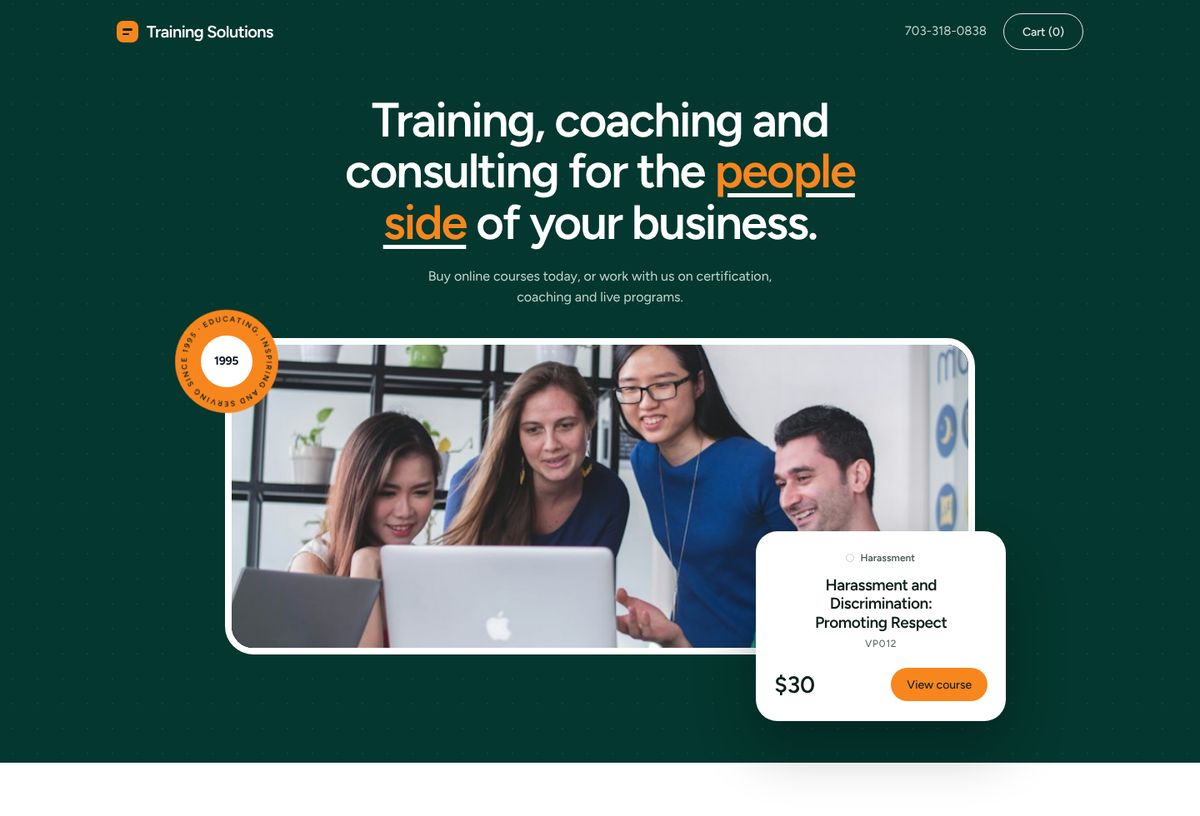
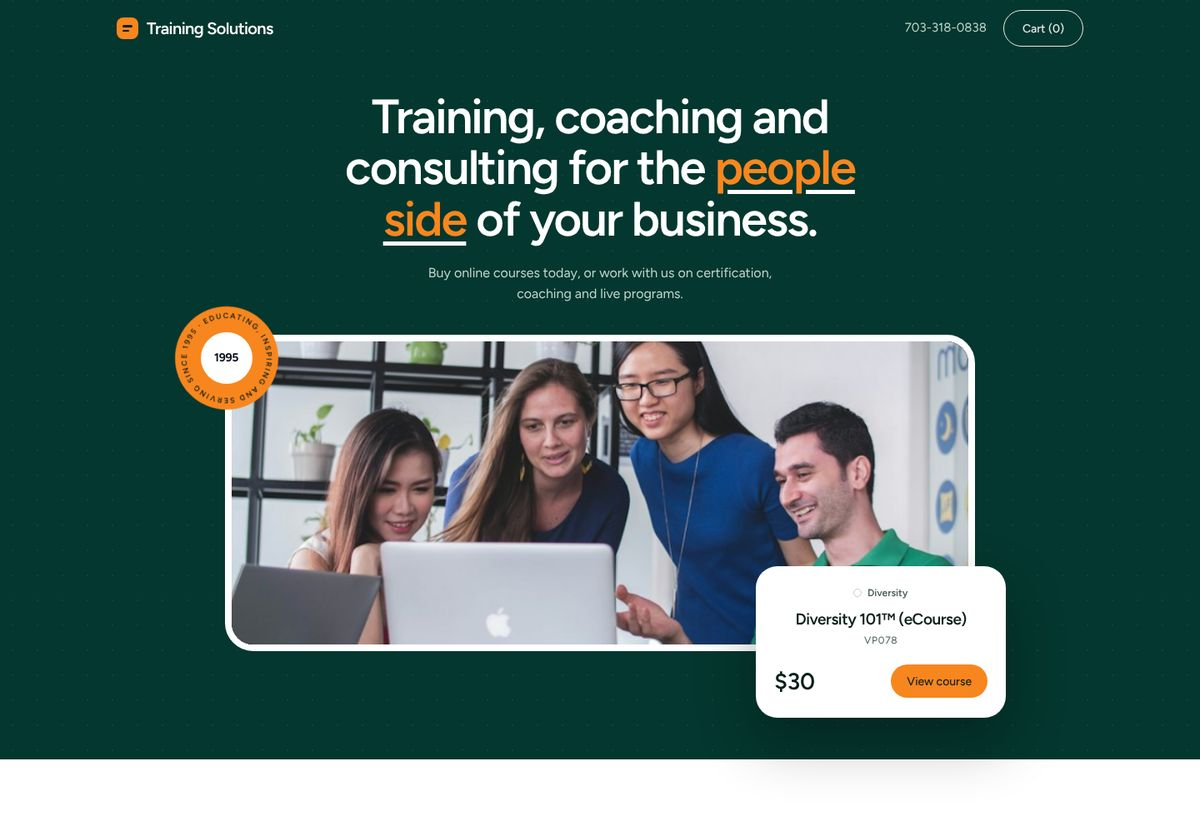
Use real featured product images and details for the popular cards
Claude-Session: https://claude.ai/code/session_01XfvvjyBa219y9qsxsCGa1L

diff --git a/visual-design-concept.html b/visual-design-concept.html
@@ -4,7 +4,7 @@
 <link rel="preconnect" href="https://fonts.gstatic.com" crossorigin>
 <link rel="stylesheet" href="https://fonts.googleapis.com/css2?family=Figtree:wght@300;400;500;600;700;800&display=swap">
 <style>
-/* Option 1, Layered Night. Topic cards: classic. Course cards: full photo with an info panel. */
+/* Option 1, Layered Night. Topic cards: classic. Course cards: real product images from trainingsolutions.com. */
 :root, [data-theme="a"] {
   /* A. Layered Night: dark hero, stacked rounded sheets, electric blue */
   --ink: #0B1020; --ink-2: #565F7A; --paper: #FFFFFF; --card: #FFFFFF;
@@ -372,6 +372,12 @@ footer { background: var(--foot-bg); color: var(--foot-fg); padding-block: 72px 
   .cshape, .badge svg, .c-arch img, .hero h1, .hero-sub, .result { animation: none; }
   .pic img, .card, .tcard, .svc, .btn, .go i, .link i { transition: none; }
 }
+
+/* real product covers: contained on a light backdrop, no tint */
+.pic.prod { background: #EEF1F7; }
+.pic.prod img { mix-blend-mode: normal; filter: none; object-fit: contain; background: transparent; }
+.card .pic.prod { padding: 48px 22px 112px; }
+.hot:hover .pic.prod img { transform: scale(1.04); }
 </style>
 <header class="hero">
   <div class="wrap">
@@ -502,18 +508,18 @@ footer { background: var(--foot-bg); color: var(--foot-fg); padding-block: 72px 
 (function () {
   // Real catalog data from trainingsolutions.com. Course length is not published in the listings, so it is left out.
   var courses = [
-    { code: 'VP012', topic: 'Harassment', title: 'Harassment and Discrimination: Promoting Respect', price: 30, img: 'harassment', alt: 'Colleagues in a respectful workplace discussion' },
-    { code: 'VP075', topic: 'Harassment', title: 'Keeping Your Workplace Free from Harassment and Discrimination', price: 30, img: 'svc-tag', alt: 'Team members working together on laptops' },
-    { code: 'VP078', topic: 'Diversity', title: 'Diversity 101™', price: 30, img: 'diversity', alt: 'Diverse team looking at a laptop together' },
-    { code: 'VP064', topic: 'Leadership', title: 'Leadership 101', price: 50, img: 'leadership', alt: 'Manager presenting to a team' },
-    { code: 'VP069', topic: 'Coaching', title: 'Courage to Coach™', price: 30, img: 'coaching', alt: 'Professional in a coaching conversation', top: 1 },
-    { code: 'VP090', topic: 'Conflict', title: 'Conflict 101™', price: 30, img: 'conflict', alt: 'Colleagues working through a disagreement' },
-    { code: 'VP063', topic: 'Coaching', title: 'Coaching and Feedback Essentials', price: 50, img: 'svc-exec', alt: 'Professional giving and receiving feedback', top: 1 },
-    { code: 'VP059', topic: 'Teams', title: 'Creating a High Performing Team', price: 50, img: 'teams', alt: 'Team collaborating around a table' },
-    { code: 'VP065', topic: 'Ethics', title: 'A.C.T. with Integrity™', price: 30, img: 'ethics', alt: 'Professional in a suit on a staircase', top: 1 },
-    { code: 'VP079', topic: 'Harassment', title: 'ENOUGH!™ The Consequences of Sexual Harassment', price: 30, img: 'svc-classes', alt: 'Facilitator leading a discussion at a whiteboard' },
-    { code: 'VP037', topic: 'Meetings', title: 'Fearless Facilitation! Lead Effective Meetings', price: 30, img: 'meetings', alt: 'Team in a meeting room' },
-    { code: 'VP043', topic: 'Sales', title: 'Win the S.A.L.E. for Sales Professionals', price: 30, img: 'sales', alt: 'Colleagues celebrating a sale' }
+    { code: "D08", topic: "Team Behaviors", title: "The Five Behaviors® Team & Personal Downloadable Kits", price: "1,345", img: "prod-d08.png", alt: "Five Behaviors Team and Personal Development downloadable kit artwork" },
+    { code: "B107", topic: "DiSC/Personal Development", title: "Everything DiSC® Workplace on Catalyst", price: "90", img: "prod-b107.jpg", alt: "Sample Your DiSC Profile report cover" },
+    { code: "CER3", topic: "DiSC/Personal Development", title: "The Everything DiSC® Certification & Catalyst Practitioner Experience", price: "3,995", img: "prod-cer3.png", alt: "Catalyst Practitioner Experience certification artwork" },
+    { code: "B101", topic: "Sales", title: "Everything DiSC® Sales Profile", price: "150", img: "prod-b101.png", alt: "Sample Everything DiSC Sales Profile report cover" },
+    { code: "PI04", topic: "Interviewing", title: "PXT Select™", price: "295", img: "prod-pi04.png", alt: "Sample PXT Select report cover" },
+    { code: "FB1", topic: "Team Behaviors", title: "The Five Behaviors™ Assessment", price: "210", img: "prod-fb1.jpg", alt: "Sample Five Behaviors assessment report cover" },
+    { code: "PI01", topic: "Management", title: "CheckPoint 360 Feedback", price: "400", img: "prod-pi01.jpg", alt: "CheckPoint 360 Executive Competency Overview sample" },
+    { code: "B104", topic: "Leadership", title: "Everything DiSC® Work of Leaders™ Profile", price: "150", img: "prod-b104.jpg", alt: "Sample Work of Leaders Profile report cover" },
+    { code: "VP065", topic: "Attitudes/Ethics", title: "A.C.T.with Integrity™ (eCourse)", price: "30", img: "prod-vp065.png", alt: "A.C.T. with Integrity eCourse title slide" },
+    { code: "VP078", topic: "Diversity", title: "Diversity 101™ (eCourse)", price: "30", img: "prod-vp078.png", alt: "Diversity 101 eCourse title slide" },
+    { code: "VP069", topic: "Coaching/Discipline", title: "Courage to Coach™ (eCourse)", price: "30", img: "prod-vp069.png", alt: "Courage to Coach eCourse slide" },
+    { code: "VP064", topic: "Leadership", title: "Leadership 101 (eCourse)", price: "50", img: "prod-vp064.png", alt: "Leadership 101 eCourse title slide" }
   ];
   var byCode = {}; courses.forEach(function (c) { byCode[c.code] = c; });
   var topics = [
@@ -529,14 +535,14 @@ footer { background: var(--foot-bg); color: var(--foot-fg); padding-block: 72px 
 
 
   /* hero: one featured course from the catalog */
-  var hero = byCode['VP012'], result = document.getElementById('result');
+  var hero = byCode['VP078'], result = document.getElementById('result');
   result.innerHTML = '<span class="tag">' + hero.topic + '</span><h3>' + esc(hero.title) + '</h3><p class="meta">' + hero.code + '</p><div class="row"><span class="price">$' + hero.price + '</span><a class="btn btn-accent" href="#courses">View course</a></div>';
   result.addEventListener('click', function (e) { if (e.target.closest('a')) { e.preventDefault(); go('courses'); } });
 
   /* course cards: full photo with an info panel */
   var grid = document.getElementById('grid');
   grid.innerHTML = courses.map(function (c) {
-    return '<a class="card hot" href="#"><span class="code">' + c.code + '</span><span class="pp">$' + c.price + '</span><div class="pic' + (c.top ? ' top' : '') + '"><img src="images/' + c.img + '.jpg" alt="' + esc(c.alt) + '" loading="lazy"></div><div class="info"><span class="tp">' + c.topic + '</span><h3>' + esc(c.title) + '</h3></div></a>';
+    return '<a class="card hot" href="#"><span class="code">' + c.code + '</span><span class="pp">$' + c.price + '</span><div class="pic' + ' prod' + '"><img src="images/' + c.img + '" alt="' + esc(c.alt) + '" loading="lazy"></div><div class="info"><span class="tp">' + c.topic + '</span><h3>' + esc(c.title) + '</h3></div></a>';
   }).join('');
   grid.addEventListener('click', function (e) { if (e.target.closest('.card')) e.preventDefault(); });
 

diff --git a/maze-style.html b/maze-style.html
@@ -197,6 +197,12 @@ footer { background: #1E1E1E; color: #fff; padding-block: 64px 32px; border-radi
   .hero h1, .hero-sub, .fcard { animation: none; }
   .tcard, .card, .svc, .btn, .pic img, .tcard .arr { transition: none; }
 }
+
+/* real product covers: contained on a light backdrop, no tint */
+.pic.prod { background: #EEF1F7; }
+.pic.prod img { mix-blend-mode: normal; filter: none; object-fit: contain; background: transparent; }
+.card .pic.prod { padding: 48px 22px 112px; }
+.hot:hover .pic.prod img { transform: scale(1.04); }
 </style>
 
 <header>
@@ -323,25 +329,25 @@ footer { background: #1E1E1E; color: #fff; padding-block: 64px 32px; border-radi
 <script>
 (function () {
   var courses = [
-    { code: 'VP012', topic: 'Harassment', title: 'Harassment and Discrimination: Promoting Respect', price: 30, img: 'harassment', alt: 'Colleagues in a respectful workplace discussion' },
-    { code: 'VP075', topic: 'Harassment', title: 'Keeping Your Workplace Free from Harassment and Discrimination', price: 30, img: 'svc-tag', alt: 'Team members working together on laptops' },
-    { code: 'VP078', topic: 'Diversity', title: 'Diversity 101™', price: 30, img: 'diversity', alt: 'Diverse team looking at a laptop together' },
-    { code: 'VP064', topic: 'Leadership', title: 'Leadership 101', price: 50, img: 'leadership', alt: 'Manager presenting to a team' },
-    { code: 'VP069', topic: 'Coaching', title: 'Courage to Coach™', price: 30, img: 'coaching', alt: 'Professional in a coaching conversation', top: 1 },
-    { code: 'VP090', topic: 'Conflict', title: 'Conflict 101™', price: 30, img: 'conflict', alt: 'Colleagues working through a disagreement' },
-    { code: 'VP063', topic: 'Coaching', title: 'Coaching and Feedback Essentials', price: 50, img: 'svc-exec', alt: 'Professional giving and receiving feedback', top: 1 },
-    { code: 'VP059', topic: 'Teams', title: 'Creating a High Performing Team', price: 50, img: 'teams', alt: 'Team collaborating around a table' },
-    { code: 'VP065', topic: 'Ethics', title: 'A.C.T. with Integrity™', price: 30, img: 'ethics', alt: 'Professional in a suit on a staircase', top: 1 },
-    { code: 'VP079', topic: 'Harassment', title: 'ENOUGH!™ The Consequences of Sexual Harassment', price: 30, img: 'svc-classes', alt: 'Facilitator leading a discussion at a whiteboard' },
-    { code: 'VP037', topic: 'Meetings', title: 'Fearless Facilitation! Lead Effective Meetings', price: 30, img: 'meetings', alt: 'Team in a meeting room' },
-    { code: 'VP043', topic: 'Sales', title: 'Win the S.A.L.E. for Sales Professionals', price: 30, img: 'sales', alt: 'Colleagues celebrating a sale' }
+    { code: "D08", topic: "Team Behaviors", title: "The Five Behaviors® Team & Personal Downloadable Kits", price: "1,345", img: "prod-d08.png", alt: "Five Behaviors Team and Personal Development downloadable kit artwork" },
+    { code: "B107", topic: "DiSC/Personal Development", title: "Everything DiSC® Workplace on Catalyst", price: "90", img: "prod-b107.jpg", alt: "Sample Your DiSC Profile report cover" },
+    { code: "CER3", topic: "DiSC/Personal Development", title: "The Everything DiSC® Certification & Catalyst Practitioner Experience", price: "3,995", img: "prod-cer3.png", alt: "Catalyst Practitioner Experience certification artwork" },
+    { code: "B101", topic: "Sales", title: "Everything DiSC® Sales Profile", price: "150", img: "prod-b101.png", alt: "Sample Everything DiSC Sales Profile report cover" },
+    { code: "PI04", topic: "Interviewing", title: "PXT Select™", price: "295", img: "prod-pi04.png", alt: "Sample PXT Select report cover" },
+    { code: "FB1", topic: "Team Behaviors", title: "The Five Behaviors™ Assessment", price: "210", img: "prod-fb1.jpg", alt: "Sample Five Behaviors assessment report cover" },
+    { code: "PI01", topic: "Management", title: "CheckPoint 360 Feedback", price: "400", img: "prod-pi01.jpg", alt: "CheckPoint 360 Executive Competency Overview sample" },
+    { code: "B104", topic: "Leadership", title: "Everything DiSC® Work of Leaders™ Profile", price: "150", img: "prod-b104.jpg", alt: "Sample Work of Leaders Profile report cover" },
+    { code: "VP065", topic: "Attitudes/Ethics", title: "A.C.T.with Integrity™ (eCourse)", price: "30", img: "prod-vp065.png", alt: "A.C.T. with Integrity eCourse title slide" },
+    { code: "VP078", topic: "Diversity", title: "Diversity 101™ (eCourse)", price: "30", img: "prod-vp078.png", alt: "Diversity 101 eCourse title slide" },
+    { code: "VP069", topic: "Coaching/Discipline", title: "Courage to Coach™ (eCourse)", price: "30", img: "prod-vp069.png", alt: "Courage to Coach eCourse slide" },
+    { code: "VP064", topic: "Leadership", title: "Leadership 101 (eCourse)", price: "50", img: "prod-vp064.png", alt: "Leadership 101 eCourse title slide" }
   ];
   var topics = [['Harassment', 19], ['Diversity', 12], ['Everything DiSC and personal development', 13], ['Leadership', 12], ['Management', 12], ['Hiring and interviewing', 10], ['Coaching and discipline', 8], ['Ethics and attitude', 7], ['Teams', 7], ['Sales and customer service', 6], ['Conflict resolution', 5], ['Meetings and time management', 5], ['Communication and EQ', 4], ['Legal', 2]];
   var reduce = window.matchMedia('(prefers-reduced-motion: reduce)').matches;
   function esc(s) { return String(s).replace(/[&<>"]/g, function (c) { return { '&': '&amp;', '<': '&lt;', '>': '&gt;', '"': '&quot;' }[c]; }); }
   function go(id) { document.getElementById(id).scrollIntoView({ behavior: reduce ? 'auto' : 'smooth' }); }
 
-  var h = courses[0], fcard = document.getElementById('fcard');
+  var h = courses[9], fcard = document.getElementById('fcard');
   fcard.innerHTML = '<span class="chip">' + h.topic + '</span><h3>' + esc(h.title) + '</h3><p class="meta">' + h.code + '</p><div class="row"><span class="price">$' + h.price + '</span><a class="btn btn-ink" href="#courses">View course</a></div>';
   fcard.addEventListener('click', function (e) { if (e.target.closest('a')) { e.preventDefault(); go('courses'); } });
 
@@ -350,7 +356,7 @@ footer { background: #1E1E1E; color: #fff; padding-block: 64px 32px; border-radi
   tgrid.addEventListener('click', function (e) { var a = e.target.closest('a.tcard'); if (a) { e.preventDefault(); go('courses'); } });
 
   var grid = document.getElementById('grid');
-  grid.innerHTML = courses.map(function (c) { return '<a class="card hot" href="#"><span class="chip code">' + c.code + '</span><span class="pp">$' + c.price + '</span><div class="pic' + (c.top ? ' top' : '') + '"><img src="images/' + c.img + '.jpg" alt="' + esc(c.alt) + '" loading="lazy"></div><div class="info"><span class="chip">' + c.topic + '</span><h3>' + esc(c.title) + '</h3></div></a>'; }).join('');
+  grid.innerHTML = courses.map(function (c) { return '<a class="card hot" href="#"><span class="chip code">' + c.code + '</span><span class="pp">$' + c.price + '</span><div class="pic' + ' prod' + '"><img src="images/' + c.img + '" alt="' + esc(c.alt) + '" loading="lazy"></div><div class="info"><span class="chip">' + c.topic + '</span><h3>' + esc(c.title) + '</h3></div></a>'; }).join('');
   grid.addEventListener('click', function (e) { if (e.target.closest('.card')) e.preventDefault(); });
 
   /* pixelated lime circle behind the services heading */

diff --git a/column-style.html b/column-style.html
@@ -190,6 +190,12 @@ footer { background: var(--pale); border-top: 1px solid var(--line); padding-blo
   .hero h1, .hero-sub, .fcard { animation: none; }
   .tcard, .card, .svc, .btn, .chev, .pic img, .tcard .go { transition: none; }
 }
+
+/* real product covers: contained on a light backdrop, no tint */
+.pic.prod { background: #EEF1F7; }
+.pic.prod img { mix-blend-mode: normal; filter: none; object-fit: contain; background: transparent; }
+.card .pic.prod { padding: 48px 22px 112px; }
+.hot:hover .pic.prod img { transform: scale(1.04); }
 </style>
 
 <header class="hero" id="top">
@@ -312,18 +318,18 @@ footer { background: var(--pale); border-top: 1px solid var(--line); padding-blo
 <script>
 (function () {
   var courses = [
-    { code: 'VP012', topic: 'Harassment', title: 'Harassment and Discrimination: Promoting Respect', price: 30, img: 'harassment', alt: 'Colleagues in a respectful workplace discussion' },
-    { code: 'VP075', topic: 'Harassment', title: 'Keeping Your Workplace Free from Harassment and Discrimination', price: 30, img: 'svc-tag', alt: 'Team members working together on laptops' },
-    { code: 'VP078', topic: 'Diversity', title: 'Diversity 101™', price: 30, img: 'diversity', alt: 'Diverse team looking at a laptop together' },
-    { code: 'VP064', topic: 'Leadership', title: 'Leadership 101', price: 50, img: 'leadership', alt: 'Manager presenting to a team' },
-    { code: 'VP069', topic: 'Coaching', title: 'Courage to Coach™', price: 30, img: 'coaching', alt: 'Professional in a coaching conversation', top: 1 },
-    { code: 'VP090', topic: 'Conflict', title: 'Conflict 101™', price: 30, img: 'conflict', alt: 'Colleagues working through a disagreement' },
-    { code: 'VP063', topic: 'Coaching', title: 'Coaching and Feedback Essentials', price: 50, img: 'svc-exec', alt: 'Professional giving and receiving feedback', top: 1 },
-    { code: 'VP059', topic: 'Teams', title: 'Creating a High Performing Team', price: 50, img: 'teams', alt: 'Team collaborating around a table' },
-    { code: 'VP065', topic: 'Ethics', title: 'A.C.T. with Integrity™', price: 30, img: 'ethics', alt: 'Professional in a suit on a staircase', top: 1 },
-    { code: 'VP079', topic: 'Harassment', title: 'ENOUGH!™ The Consequences of Sexual Harassment', price: 30, img: 'svc-classes', alt: 'Facilitator leading a discussion at a whiteboard' },
-    { code: 'VP037', topic: 'Meetings', title: 'Fearless Facilitation! Lead Effective Meetings', price: 30, img: 'meetings', alt: 'Team in a meeting room' },
-    { code: 'VP043', topic: 'Sales', title: 'Win the S.A.L.E. for Sales Professionals', price: 30, img: 'sales', alt: 'Colleagues celebrating a sale' }
+    { code: "D08", topic: "Team Behaviors", title: "The Five Behaviors® Team & Personal Downloadable Kits", price: "1,345", img: "prod-d08.png", alt: "Five Behaviors Team and Personal Development downloadable kit artwork" },
+    { code: "B107", topic: "DiSC/Personal Development", title: "Everything DiSC® Workplace on Catalyst", price: "90", img: "prod-b107.jpg", alt: "Sample Your DiSC Profile report cover" },
+    { code: "CER3", topic: "DiSC/Personal Development", title: "The Everything DiSC® Certification & Catalyst Practitioner Experience", price: "3,995", img: "prod-cer3.png", alt: "Catalyst Practitioner Experience certification artwork" },
+    { code: "B101", topic: "Sales", title: "Everything DiSC® Sales Profile", price: "150", img: "prod-b101.png", alt: "Sample Everything DiSC Sales Profile report cover" },
+    { code: "PI04", topic: "Interviewing", title: "PXT Select™", price: "295", img: "prod-pi04.png", alt: "Sample PXT Select report cover" },
+    { code: "FB1", topic: "Team Behaviors", title: "The Five Behaviors™ Assessment", price: "210", img: "prod-fb1.jpg", alt: "Sample Five Behaviors assessment report cover" },
+    { code: "PI01", topic: "Management", title: "CheckPoint 360 Feedback", price: "400", img: "prod-pi01.jpg", alt: "CheckPoint 360 Executive Competency Overview sample" },
+    { code: "B104", topic: "Leadership", title: "Everything DiSC® Work of Leaders™ Profile", price: "150", img: "prod-b104.jpg", alt: "Sample Work of Leaders Profile report cover" },
+    { code: "VP065", topic: "Attitudes/Ethics", title: "A.C.T.with Integrity™ (eCourse)", price: "30", img: "prod-vp065.png", alt: "A.C.T. with Integrity eCourse title slide" },
+    { code: "VP078", topic: "Diversity", title: "Diversity 101™ (eCourse)", price: "30", img: "prod-vp078.png", alt: "Diversity 101 eCourse title slide" },
+    { code: "VP069", topic: "Coaching/Discipline", title: "Courage to Coach™ (eCourse)", price: "30", img: "prod-vp069.png", alt: "Courage to Coach eCourse slide" },
+    { code: "VP064", topic: "Leadership", title: "Leadership 101 (eCourse)", price: "50", img: "prod-vp064.png", alt: "Leadership 101 eCourse title slide" }
   ];
   var topics = [['Harassment', 19], ['Diversity', 12], ['Everything DiSC and personal development', 13], ['Leadership', 12], ['Management', 12], ['Hiring and interviewing', 10], ['Coaching and discipline', 8], ['Ethics and attitude', 7], ['Teams', 7], ['Sales and customer service', 6], ['Conflict resolution', 5], ['Meetings and time management', 5], ['Communication and EQ', 4], ['Legal', 2]];
   var reduce = window.matchMedia('(prefers-reduced-motion: reduce)').matches;
@@ -331,7 +337,7 @@ footer { background: var(--pale); border-top: 1px solid var(--line); padding-blo
   function go(id) { document.getElementById(id).scrollIntoView({ behavior: reduce ? 'auto' : 'smooth' }); }
 
   /* featured course */
-  var h = courses[0], fcard = document.getElementById('fcard');
+  var h = courses[9], fcard = document.getElementById('fcard');
   fcard.innerHTML = '<span class="tag">' + h.topic + '</span><h3>' + esc(h.title) + '</h3><p class="meta mono">' + h.code + '</p><div class="row"><span class="price">$' + h.price + '</span><a class="btn btn-navy" href="#courses">View course <span class="chev" aria-hidden="true">›</span></a></div>';
   fcard.addEventListener('click', function (e) { if (e.target.closest('a')) { e.preventDefault(); go('courses'); } });
 
@@ -342,7 +348,7 @@ footer { background: var(--pale); border-top: 1px solid var(--line); padding-blo
 
   /* courses */
   var grid = document.getElementById('grid');
-  grid.innerHTML = courses.map(function (c) { return '<a class="card hot" href="#"><span class="code">' + c.code + '</span><span class="pp">$' + c.price + '</span><div class="pic' + (c.top ? ' top' : '') + '"><img src="images/' + c.img + '.jpg" alt="' + esc(c.alt) + '" loading="lazy"></div><div class="info"><span class="tp">' + c.topic + '</span><h3>' + esc(c.title) + '</h3></div></a>'; }).join('');
+  grid.innerHTML = courses.map(function (c) { return '<a class="card hot" href="#"><span class="code">' + c.code + '</span><span class="pp">$' + c.price + '</span><div class="pic' + ' prod' + '"><img src="images/' + c.img + '" alt="' + esc(c.alt) + '" loading="lazy"></div><div class="info"><span class="tp">' + c.topic + '</span><h3>' + esc(c.title) + '</h3></div></a>'; }).join('');
   grid.addEventListener('click', function (e) { if (e.target.closest('.card')) e.preventDefault(); });
 
   /* halftone dot fields */

diff --git a/home.html b/home.html
@@ -384,6 +384,12 @@ footer { background: var(--foot-bg); color: var(--foot-fg); padding-block: 72px 
   .cshape, .badge svg, .c-arch img, .hero h1, .hero-sub, .result { animation: none; }
   .pic img, .card, .tcard, .svc, .btn, .go i, .link i { transition: none; }
 }
+
+/* real product covers: contained on a light backdrop, no tint */
+.pic.prod { background: #EEF1F7; }
+.pic.prod img { mix-blend-mode: normal; filter: none; object-fit: contain; background: transparent; }
+.card .pic.prod { padding: 48px 22px 112px; }
+.hot:hover .pic.prod img { transform: scale(1.04); }
 </style>
 </head>
 <body>
@@ -522,18 +528,18 @@ footer { background: var(--foot-bg); color: var(--foot-fg); padding-block: 72px 
 (function () {
   // Real catalog data from trainingsolutions.com. Course length is not published in the listings, so it is left out.
   var courses = [
-    { code: 'VP012', topic: 'Harassment', title: 'Harassment and Discrimination: Promoting Respect', price: 30, img: 'harassment', alt: 'Colleagues in a respectful workplace discussion' },
-    { code: 'VP075', topic: 'Harassment', title: 'Keeping Your Workplace Free from Harassment and Discrimination', price: 30, img: 'svc-tag', alt: 'Team members working together on laptops' },
-    { code: 'VP078', topic: 'Diversity', title: 'Diversity 101™', price: 30, img: 'diversity', alt: 'Diverse team looking at a laptop together' },
-    { code: 'VP064', topic: 'Leadership', title: 'Leadership 101', price: 50, img: 'leadership', alt: 'Manager presenting to a team' },
-    { code: 'VP069', topic: 'Coaching', title: 'Courage to Coach™', price: 30, img: 'coaching', alt: 'Professional in a coaching conversation', top: 1 },
-    { code: 'VP090', topic: 'Conflict', title: 'Conflict 101™', price: 30, img: 'conflict', alt: 'Colleagues working through a disagreement' },
-    { code: 'VP063', topic: 'Coaching', title: 'Coaching and Feedback Essentials', price: 50, img: 'svc-exec', alt: 'Professional giving and receiving feedback', top: 1 },
-    { code: 'VP059', topic: 'Teams', title: 'Creating a High Performing Team', price: 50, img: 'teams', alt: 'Team collaborating around a table' },
-    { code: 'VP065', topic: 'Ethics', title: 'A.C.T. with Integrity™', price: 30, img: 'ethics', alt: 'Professional in a suit on a staircase', top: 1 },
-    { code: 'VP079', topic: 'Harassment', title: 'ENOUGH!™ The Consequences of Sexual Harassment', price: 30, img: 'svc-classes', alt: 'Facilitator leading a discussion at a whiteboard' },
-    { code: 'VP037', topic: 'Meetings', title: 'Fearless Facilitation! Lead Effective Meetings', price: 30, img: 'meetings', alt: 'Team in a meeting room' },
-    { code: 'VP043', topic: 'Sales', title: 'Win the S.A.L.E. for Sales Professionals', price: 30, img: 'sales', alt: 'Colleagues celebrating a sale' }
+    { code: "D08", topic: "Team Behaviors", title: "The Five Behaviors® Team & Personal Downloadable Kits", price: "1,345", img: "prod-d08.png", alt: "Five Behaviors Team and Personal Development downloadable kit artwork" },
+    { code: "B107", topic: "DiSC/Personal Development", title: "Everything DiSC® Workplace on Catalyst", price: "90", img: "prod-b107.jpg", alt: "Sample Your DiSC Profile report cover" },
+    { code: "CER3", topic: "DiSC/Personal Development", title: "The Everything DiSC® Certification & Catalyst Practitioner Experience", price: "3,995", img: "prod-cer3.png", alt: "Catalyst Practitioner Experience certification artwork" },
+    { code: "B101", topic: "Sales", title: "Everything DiSC® Sales Profile", price: "150", img: "prod-b101.png", alt: "Sample Everything DiSC Sales Profile report cover" },
+    { code: "PI04", topic: "Interviewing", title: "PXT Select™", price: "295", img: "prod-pi04.png", alt: "Sample PXT Select report cover" },
+    { code: "FB1", topic: "Team Behaviors", title: "The Five Behaviors™ Assessment", price: "210", img: "prod-fb1.jpg", alt: "Sample Five Behaviors assessment report cover" },
+    { code: "PI01", topic: "Management", title: "CheckPoint 360 Feedback", price: "400", img: "prod-pi01.jpg", alt: "CheckPoint 360 Executive Competency Overview sample" },
+    { code: "B104", topic: "Leadership", title: "Everything DiSC® Work of Leaders™ Profile", price: "150", img: "prod-b104.jpg", alt: "Sample Work of Leaders Profile report cover" },
+    { code: "VP065", topic: "Attitudes/Ethics", title: "A.C.T.with Integrity™ (eCourse)", price: "30", img: "prod-vp065.png", alt: "A.C.T. with Integrity eCourse title slide" },
+    { code: "VP078", topic: "Diversity", title: "Diversity 101™ (eCourse)", price: "30", img: "prod-vp078.png", alt: "Diversity 101 eCourse title slide" },
+    { code: "VP069", topic: "Coaching/Discipline", title: "Courage to Coach™ (eCourse)", price: "30", img: "prod-vp069.png", alt: "Courage to Coach eCourse slide" },
+    { code: "VP064", topic: "Leadership", title: "Leadership 101 (eCourse)", price: "50", img: "prod-vp064.png", alt: "Leadership 101 eCourse title slide" }
   ];
   var byCode = {}; courses.forEach(function (c) { byCode[c.code] = c; });
   var topics = [
@@ -558,14 +564,14 @@ footer { background: var(--foot-bg); color: var(--foot-fg); padding-block: 72px 
   applyTheme();
 
   /* hero: one featured course from the catalog */
-  var hero = byCode['VP012'], result = document.getElementById('result');
+  var hero = byCode['VP078'], result = document.getElementById('result');
   result.innerHTML = '<span class="tag">' + hero.topic + '</span><h3>' + esc(hero.title) + '</h3><p class="meta">' + hero.code + '</p><div class="row"><span class="price">$' + hero.price + '</span><a class="btn btn-accent" href="#courses">View course</a></div>';
   result.addEventListener('click', function (e) { if (e.target.closest('a')) { e.preventDefault(); go('courses'); } });
 
   /* course cards: full photo with an info panel */
   var grid = document.getElementById('grid');
   grid.innerHTML = courses.map(function (c) {
-    return '<a class="card hot" href="#"><span class="code">' + c.code + '</span><span class="pp">$' + c.price + '</span><div class="pic' + (c.top ? ' top' : '') + '"><img src="images/' + c.img + '.jpg" alt="' + esc(c.alt) + '" loading="lazy"></div><div class="info"><span class="tp">' + c.topic + '</span><h3>' + esc(c.title) + '</h3></div></a>';
+    return '<a class="card hot" href="#"><span class="code">' + c.code + '</span><span class="pp">$' + c.price + '</span><div class="pic' + ' prod' + '"><img src="images/' + c.img + '" alt="' + esc(c.alt) + '" loading="lazy"></div><div class="info"><span class="tp">' + c.topic + '</span><h3>' + esc(c.title) + '</h3></div></a>';
   }).join('');
   grid.addEventListener('click', function (e) { if (e.target.closest('.card')) e.preventDefault(); });
 
